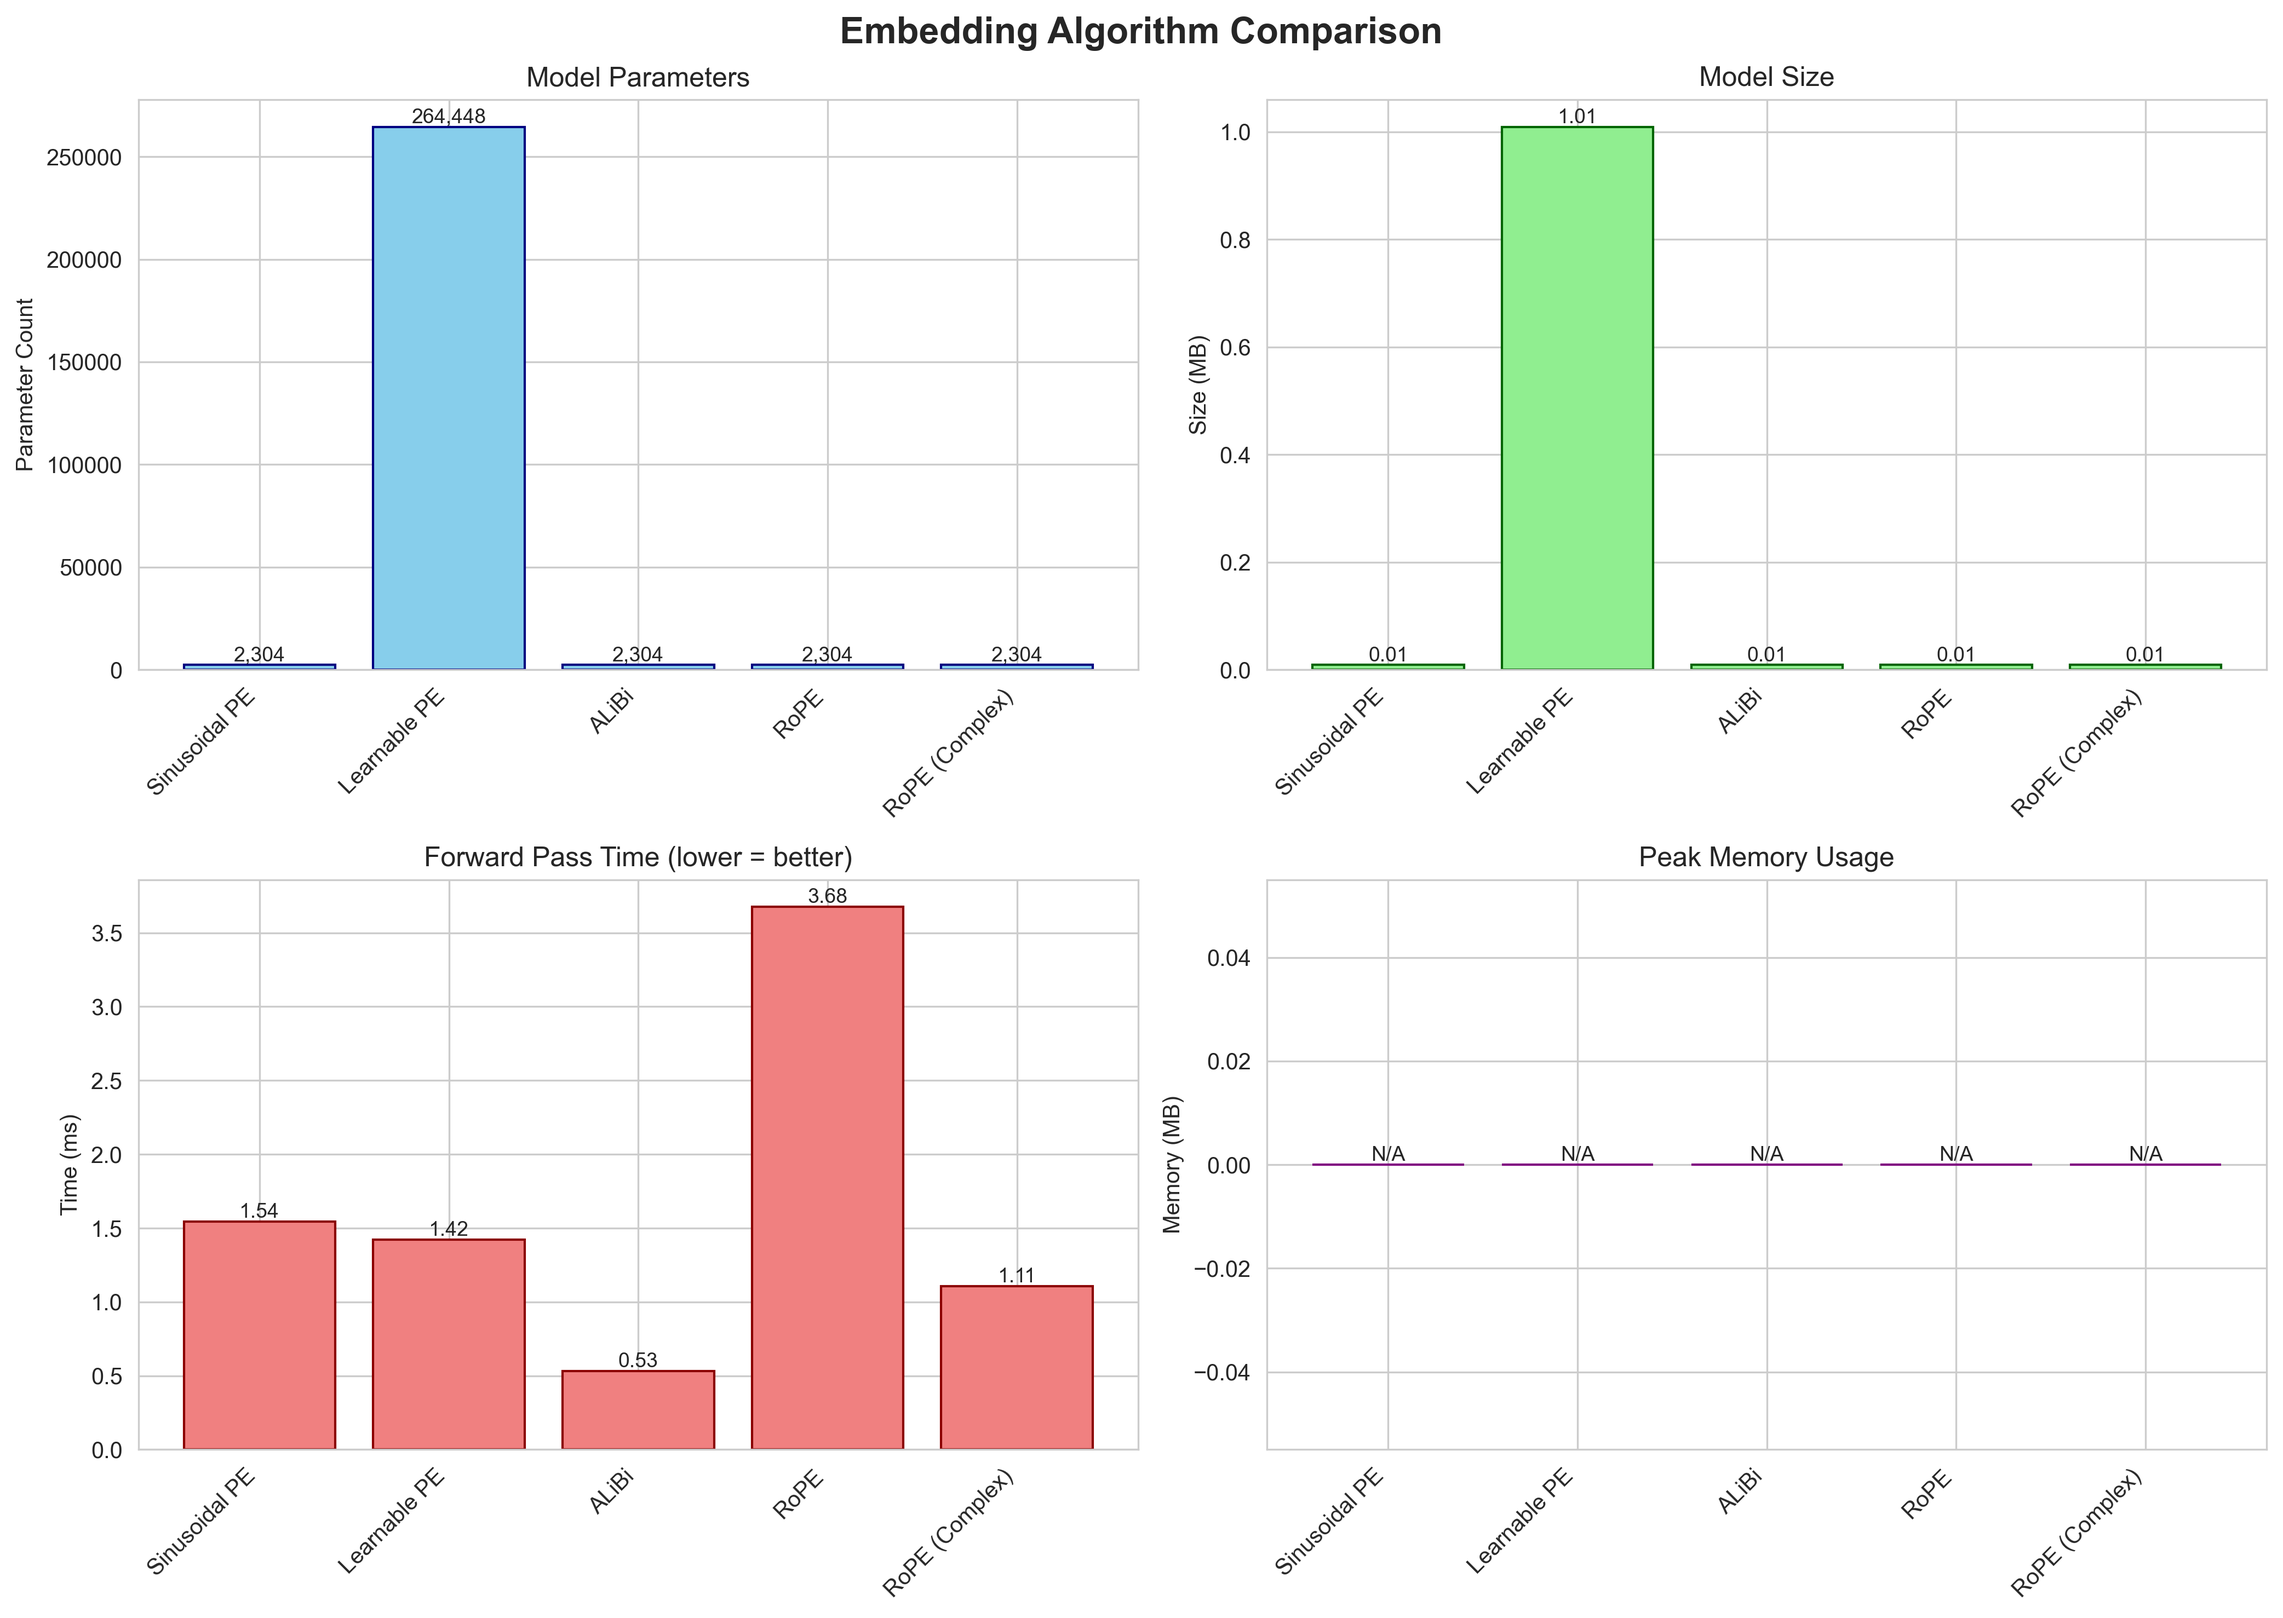
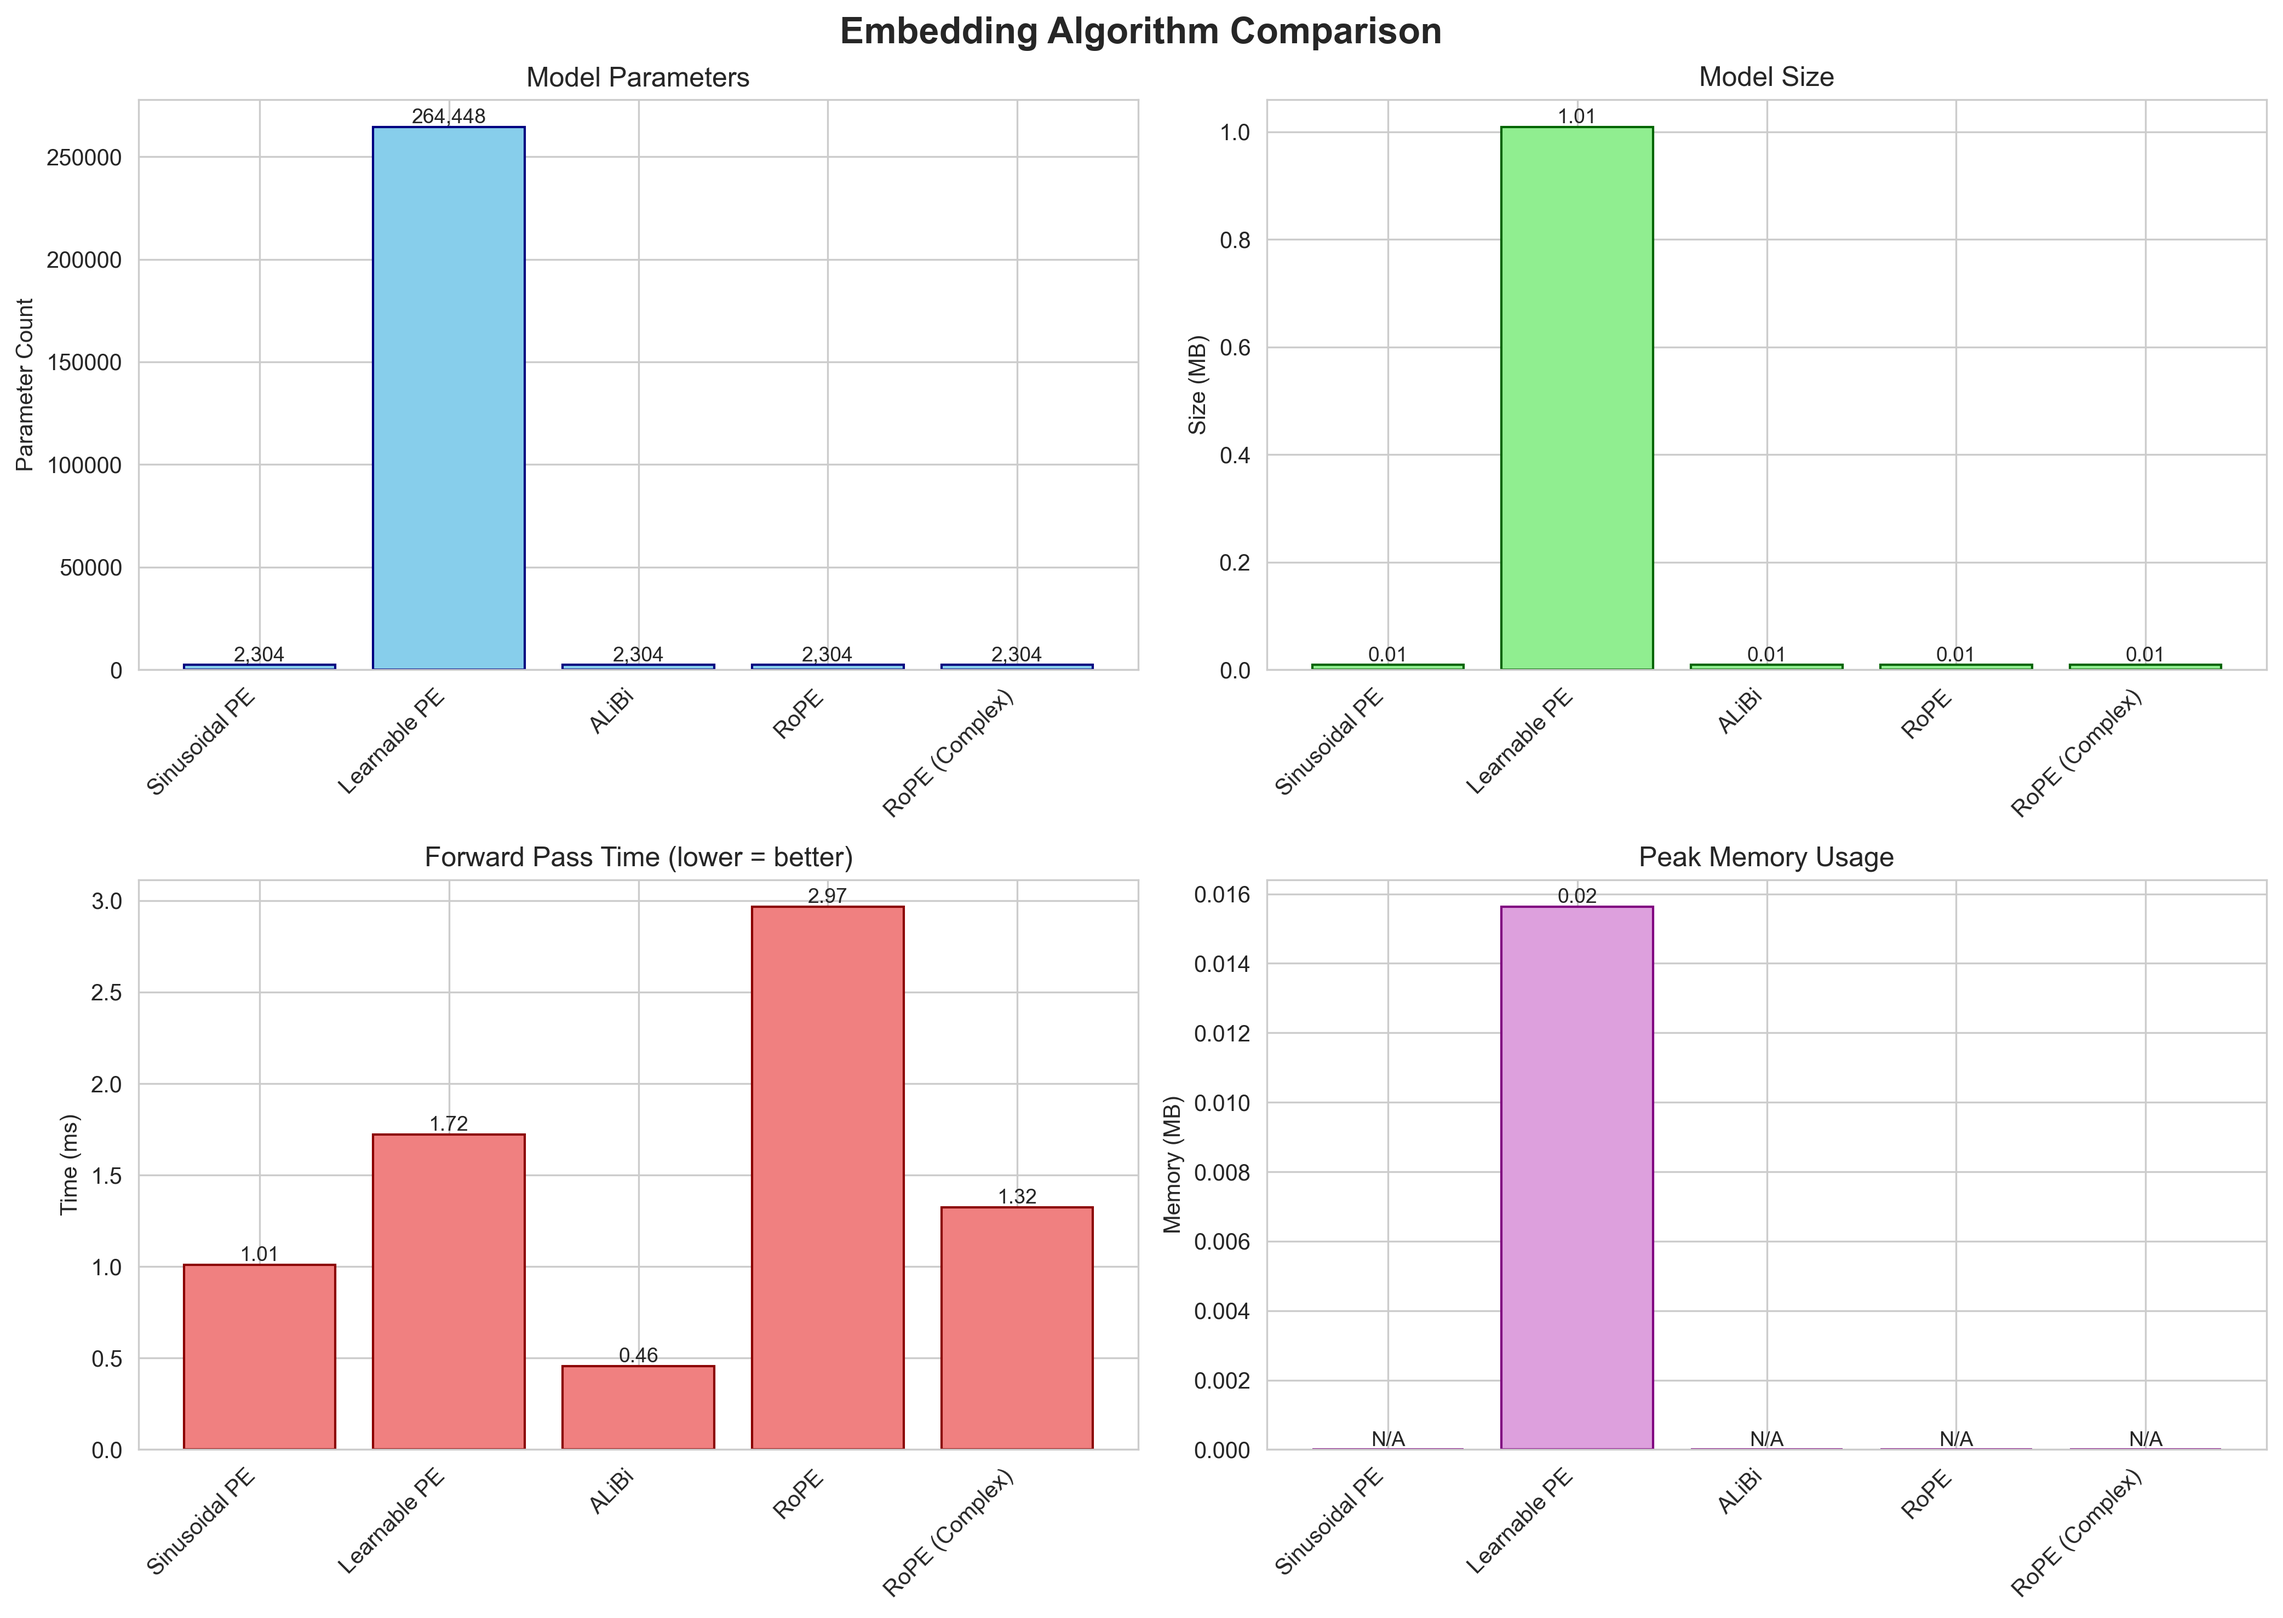
chore: add missing pkg

diff --git a/benchmarks/embedding/embedding_results.md b/benchmarks/embedding/embedding_results.md
@@ -2,13 +2,13 @@
 
 | Embedder | Parameters | Size (MB) | Forward Time (ms) | Memory (MB) |
 |----------|------------|-----------|-------------------|-------------|
-| Sinusoidal PE | 2,304 | 0.01 | 1.54 | N/A |
-| Learnable PE | 264,448 | 1.01 | 1.42 | N/A |
-| ALiBi | 2,304 | 0.01 | 0.53 | N/A |
-| RoPE | 2,304 | 0.01 | 3.68 | N/A |
-| RoPE (Complex) | 2,304 | 0.01 | 1.11 | N/A |
+| Sinusoidal PE | 2,304 | 0.01 | 1.01 | N/A |
+| Learnable PE | 264,448 | 1.01 | 1.72 | 0.02 |
+| ALiBi | 2,304 | 0.01 | 0.46 | N/A |
+| RoPE | 2,304 | 0.01 | 2.97 | N/A |
+| RoPE (Complex) | 2,304 | 0.01 | 1.32 | N/A |
 
 ## Summary
 
 - **Smallest Model**: Sinusoidal PE (2,304 params)
-- **Fastest Forward Pass**: ALiBi (0.53ms)
+- **Fastest Forward Pass**: ALiBi (0.46ms)
